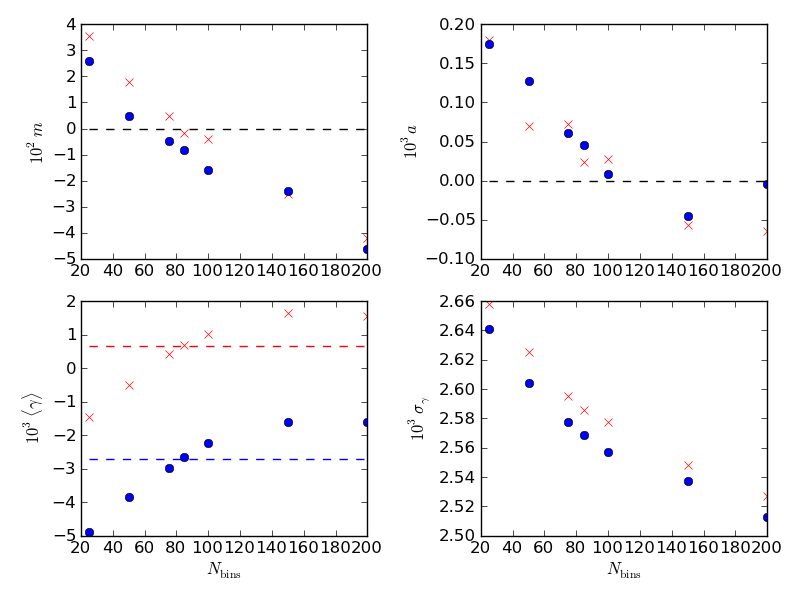
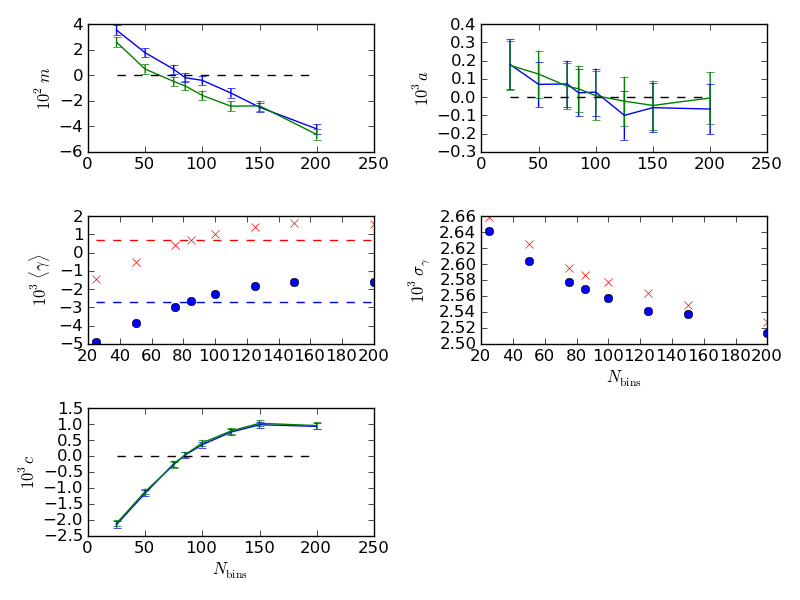
make bias assessment slightly fancier, using weights

diff --git a/Scripts/plot_nbin.py b/Scripts/plot_nbin.py
@@ -1,12 +1,17 @@
 import matplotlib.pyplot as plt
 import numpy as np
-import scipy.linalg
 import os
 import subprocess
+from scipy.optimize import curve_fit
+
+def shear_model(x, m, a, c):
+    # x should be 3 x N, where 0=gtrue, 1=epsf, 2=const
+    return m*x[0,:] + a*x[1,:] + c*x[2,:]
+    
 
 truthfile = 'cgc-noaber-truthtable.txt'
 
-n_bins = [25, 50, 75, 85, 100, 150, 200]
+n_bins = [25, 50, 75, 85, 100, 125, 150, 200]
 filepref = 'outputs/output-cgc-noaber-nosymm-'
 filesuff = '.dat'
 rootdir = './' # to be passed to shear_ensemble_est.py
@@ -18,8 +23,16 @@ sig_g1 = []
 sig_g2 = []
 m1 = []
 m2 = []
+sig_m1 = []
+sig_m2 = []
 a1 = []
 a2 = []
+sig_a1 = []
+sig_a2 = []
+c1 = []
+c2 = []
+sig_c1 = []
+sig_c2 = []
 for n in n_bins:
     # construct filename
     filename = '%s%d%s'%(filepref,n,filesuff)
@@ -27,7 +40,7 @@ for n in n_bins:
     # check for existence; if not, create
     if not os.path.exists(filename):
         print 'Generating file %s'%filename
-        tmp_command = 'python shear_ensemble_est.py %s %s %s %d'%(rootdir,mc_type,filename,n)
+        tmp_command = 'python shear_ensemble_est.py --path %s --mc_type %s -o %s -n %d'%(rootdir,mc_type,filename,n)
         p = subprocess.Popen(tmp_command, shell=True, close_fds=True)
         p.wait()
         print 'Done running inference'
@@ -63,46 +76,62 @@ for n in n_bins:
     # compute (roughly) and store m, a
     # Our equation is g_obs - g_true = m*g_true + a*e_psf
     # Our "A" matrix that lstsq wants should be like this:
-    A = np.column_stack([g1_true, psf_e1, np.ones_like(psf_e1)])
+    A = np.column_stack([g1_true, psf_e1, np.ones_like(psf_e1)]).transpose()
     # And the B vector is just the LHS
     B = g1_opt - g1_true
-    ret_val = scipy.linalg.lstsq(A, B)
-    m1.append(ret_val[0][0])
-    a1.append(ret_val[0][1])
-    A = np.column_stack([g2_true, psf_e2, np.ones_like(psf_e2)])
+    ret_val, covar_1 = curve_fit(shear_model, A, B, sigma=np.sqrt(g1_var))
+    m1.append(ret_val[0])
+    a1.append(ret_val[1])
+    c1.append(ret_val[2])
+    sig_m1.append(np.sqrt(covar_1[0][0]))
+    sig_a1.append(np.sqrt(covar_1[1][1]))
+    sig_c1.append(np.sqrt(covar_1[2][2]))
+    A = np.column_stack([g2_true, psf_e2, np.ones_like(psf_e2)]).transpose()
     B = g2_opt - g2_true
-    ret_val = scipy.linalg.lstsq(A, B)
-    m2.append(ret_val[0][0])
-    a2.append(ret_val[0][1])
+    ret_val, covar_2 = curve_fit(shear_model, A, B, sigma=np.sqrt(g1_var))
+    m2.append(ret_val[0])
+    a2.append(ret_val[1])
+    c2.append(ret_val[2])
+    sig_m2.append(np.sqrt(covar_2[0][0]))
+    sig_a2.append(np.sqrt(covar_2[1][1]))
+    sig_c2.append(np.sqrt(covar_2[2][2]))
 
 # Plot m vs. n_bins
 fig = plt.figure()
-ax = fig.add_subplot(221)
-ax.plot(n_bins, 100*np.array(m1), 'rx', label=r'$m_1$')
-ax.plot(n_bins, 100*np.array(m2), 'bo', label=r'$m_2$')
+ax = fig.add_subplot(321)
+ax.errorbar(n_bins, 100*np.array(m1), yerr=100*np.array(sig_m1), label=r'$m_1$')
+ax.errorbar(n_bins, 100*np.array(m2), yerr=100*np.array(sig_m2), label=r'$m_2$')
 ax.plot(n_bins, np.zeros_like(n_bins), 'k--')
 #ax.set_xlabel(r'$N_{\rm bins}$')
 ax.set_ylabel(r'$10^2 m$')
 
 # Plot a vs. n_bins
-ax = fig.add_subplot(222)
-ax.plot(n_bins, 1000*np.array(a1), 'rx', label=r'$a_1$')
-ax.plot(n_bins, 1000*np.array(a2), 'bo', label=r'$a_2$')
+ax = fig.add_subplot(322)
+ax.errorbar(n_bins, 1000*np.array(a1), yerr=1000*np.array(sig_a1), label=r'$a_1$')
+ax.errorbar(n_bins, 1000*np.array(a2), yerr=1000*np.array(sig_a2), label=r'$a_2$')
 ax.plot(n_bins, np.zeros_like(n_bins), 'k--')
 #ax.set_xlabel(r'$N_{\rm bins}$')
 ax.set_ylabel(r'$10^{3} a$')
 
+# Plot c vs. n_bins
+ax = fig.add_subplot(325)
+ax.errorbar(n_bins, 1000*np.array(c1), yerr=1000*np.array(sig_c1), label=r'$c_1$')
+ax.errorbar(n_bins, 1000*np.array(c2), yerr=1000*np.array(sig_c2), label=r'$c_2$')
+ax.plot(n_bins, np.zeros_like(n_bins), 'k--')
+ax.set_xlabel(r'$N_{\rm bins}$')
+ax.set_ylabel(r'$10^{3} c$')
+
 # Plot <g> vs. n_bins
-ax = fig.add_subplot(223)
+ax = fig.add_subplot(323)
 ax.plot(n_bins, 1000*np.array(mean_g1), 'rx', label=r'$\langle\gamma_1\rangle$')
 ax.plot(n_bins, 1000*np.array(mean_g2), 'bo', label=r'$\langle\gamma_2\rangle$')
 ax.plot(n_bins, 1000*np.mean(g1_true)*np.ones_like(n_bins), 'r--')
 ax.plot(n_bins, 1000*np.mean(g2_true)*np.ones_like(n_bins), 'b--')
-ax.set_xlabel(r'$N_{\rm bins}$')
+#ax.set_xlabel(r'$N_{\rm bins}$')
 ax.set_ylabel(r'$10^3 \langle\gamma\rangle$')
 
 # Plot sigma_g vs. n_bins
-ax = fig.add_subplot(224)
+ax = fig.add_subplot(324)
 ax.plot(n_bins, 1000*np.array(sig_g1), 'rx', label=r'$\langle\sigma_{\gamma,1}\rangle$')
 ax.plot(n_bins, 1000*np.array(sig_g2), 'bo', label=r'$\langle\sigma_{\gamma,2}\rangle$')
 ax.set_xlabel(r'$N_{\rm bins}$')
